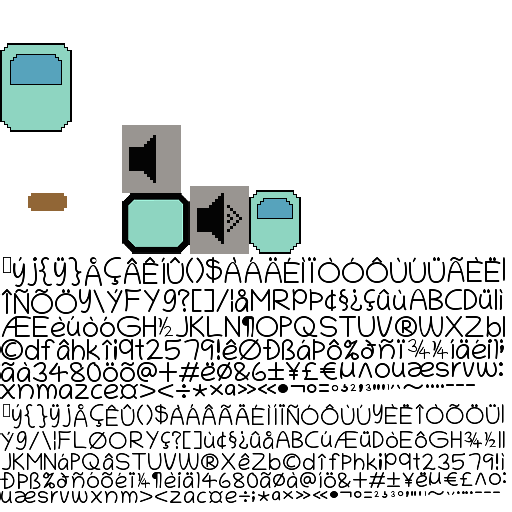
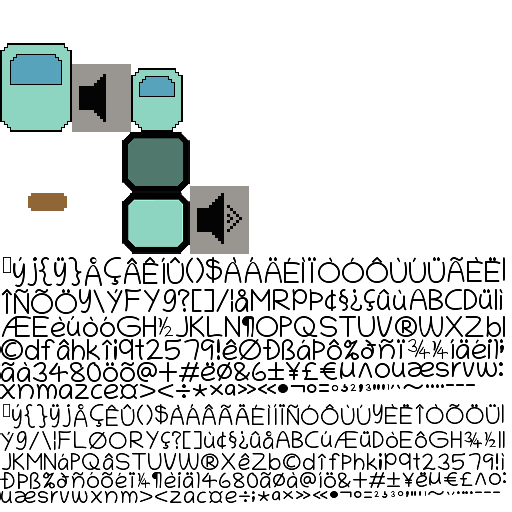
turnteller and some refining

Changed region(s): [[0.125, 0.125, 0.375, 0.375], [0.4688, 0.3438, 0.5938, 0.5]]

diff --git a/project/core/src/com/mygdx/game/screens/level1.java b/project/core/src/com/mygdx/game/screens/level1.java
@@ -41,8 +41,8 @@ public class level1 implements Screen {
 
     float timeSinceAttack = 0;
 
-    Label playerTurn;
-    Label enemyTurn;
+    public static Label playerTurn;
+    public static Label enemyTurn;
 
 
     private final Stage gameStage;
@@ -63,8 +63,7 @@ public class level1 implements Screen {
         playerTurn = new Label("Its your turn!", skin);
         enemyTurn = new Label("Its the enemies turn!", skin);
 
-        playerTurn.setPosition(Main.WORLD_WIDTH/2f, Main.WORLD_HEIGHT/1.5f);
-        enemyTurn.setPosition(Main.WORLD_WIDTH/2f, Main.WORLD_HEIGHT/2f);
+        playerTurn.setPosition(350f, Main.WORLD_HEIGHT/1.5f);
 
         playerTurn.setVisible(false);
         enemyTurn.setVisible(false);
@@ -97,24 +96,17 @@ public class level1 implements Screen {
         gameStage.addActor(playerTurn);
         gameStage.addActor(enemyTurn);
 
-
         winPopup();
         openingDialog();
     }
 
-    public void turnTeller() {
-
+    public static void playerTurnTeller() {
         if(enemyActor.allowPlayerAttack) {
             playerTurn.setVisible(true);
             playerTurn.addAction(Actions.sequence(Actions.alpha(0)
                     , Actions.fadeIn(2f), Actions.fadeOut(2f)));
-        } else {
-            enemyTurn.setVisible(true);
-            enemyTurn.addAction(Actions.sequence(Actions.alpha(0)
-                    , Actions.fadeIn(2f), Actions.fadeOut(2f)));
         }
     }
-
 
     private void openingDialog() {
         String introduceKid = Main.getLevelText("kid1");
@@ -125,6 +117,7 @@ public class level1 implements Screen {
 
                 if (obj.equals(true)) {
                     openDialog.setVisible(false);
+                    playerTurnTeller();
                 }
             }};
 
@@ -143,6 +136,7 @@ public class level1 implements Screen {
                 Gdx.app.log("nappi ", "nappi" + obj);
                 if (obj.equals(true)) {
                     host.setScreen(new levelSelect(host));
+                    player.MONEY += 50;
                 }
             }
         };
@@ -152,12 +146,13 @@ public class level1 implements Screen {
         winDialog.pack();
         winDialog.setPosition(Main.WORLD_WIDTH/4f, Main.WORLD_HEIGHT/4f);
         winDialog.setVisible(false);
+        winDialog.setMovable(false);
         gameStage.addActor(winDialog);
     }
 
     public void fight() {
 
-        //Enemy attacks only after the player attacks, and DeltaTime counts a 2 second delay for the enemies move.
+        //Enemy attacks only after the player has attacked, and DeltaTime counts a delay for the enemies move, based on how long the players invidual attack lasts.
         if(player.playerActionDone && enemy.ENEMY_HEALTH > 0){
             timeSinceAttack += Gdx.graphics.getDeltaTime();
             if (timeSinceAttack > player.enemyAttacksAfter) {
@@ -174,7 +169,6 @@ public class level1 implements Screen {
 
         if(enemy.ENEMY_HEALTH <= 0){
             enemy.enemyDie();
-            player.MONEY = player.MONEY + 500;
             kid.appear();
             gameStage.getActors().removeValue(settingsingame, true);
 
@@ -199,7 +193,7 @@ public class level1 implements Screen {
             }
         }
 
-        if(player.PLAYER_HEALTH<=0){
+        if(player.PLAYER_HEALTH <= 0){
             player.resetStats();
             host.setScreen(new GameOverScreen(host));
         }

diff --git a/project/core/src/com/mygdx/game/screens/lounge.java b/project/core/src/com/mygdx/game/screens/lounge.java
@@ -79,7 +79,7 @@ public class lounge implements Screen {
     }
 
     public void upgradeTable() {
-        Drawable background = skin.getDrawable("dialog4");
+        Drawable background = skin.getDrawable("dialog");
         attackValue = defaultValues.currentAttack;
         defenceValue = defaultValues.currentDefence;
 
@@ -91,7 +91,7 @@ public class lounge implements Screen {
         Container<Table> tableContainer = new Container<Table>();
         tableContainer.setSize(Main.WORLD_WIDTH / 2f, Main.WORLD_HEIGHT / 2f);
         tableContainer.setPosition(Main.WORLD_WIDTH / 4f, Main.WORLD_HEIGHT / 4f);
-      //  tableContainer.fillX();
+        tableContainer.fill();
 
         table = new Table(skin);
 
@@ -102,7 +102,7 @@ public class lounge implements Screen {
 
         table.setBackground(background);
 
-        table.add(moneyLabel);
+        table.add(moneyLabel).center();
         table.row().pad(5f);
         table.add(attackMinus, attackLabel, attackPlus);
         table.row();
@@ -120,7 +120,7 @@ public class lounge implements Screen {
     }
 
     public void entryPopup() {
- //Dialog dialog is initialized on the top
+        //Dialog dialog is initialized on the top
         //boolean value for showing popup is changed to true in the render call
         stage = new Stage();
         Skin skin = new Skin(Gdx.files.internal("skin.json"));

diff --git a/project/core/src/com/mygdx/game/Main.java b/project/core/src/com/mygdx/game/Main.java
@@ -35,6 +35,9 @@ public class Main extends Game {
 	public static Music menuMusic;
 	public static Music fightMusic;
 
+	public static I18NBundle myBundleFin;
+	public static I18NBundle myBundleEng;
+
 	public SpriteBatch getBatch() {
 		return batch;
 	}
@@ -58,30 +61,16 @@ public class Main extends Game {
 		localeFI = new Locale("");
 		finnish = true;
 
-		setScreen(new mainMenuScreen(this));
+		myBundleFin = I18NBundle.createBundle(Gdx.files.internal("MyBundle"), localeFI, "utf-8");
+		myBundleEng = I18NBundle.createBundle(Gdx.files.internal("MyBundle_en_US"), localeEN, "utf-8");
 
+		setScreen(new mainMenuScreen(this, skin));
 	}
 
-	public static final void setToEnglish() {
-		localeEN = new Locale("en_US");
-	}
-
-	public static final void setToFinnish() {
-		localeFI = new Locale("");
-	}
-
-
-		// String text = getLevelText("level1");
 	public static final String getLevelText(String key) {
-		// Kysy käyttikseltä millä kielellä mennään
-
 		if (finnish) {
-			I18NBundle myBundleFin =
-					I18NBundle.createBundle(Gdx.files.internal("MyBundle"), localeFI, "utf-8");
 			return myBundleFin.get(key);
 		} else {
-			I18NBundle myBundleEng =
-					I18NBundle.createBundle(Gdx.files.internal("MyBundle"), localeEN, "utf-8");
 			return myBundleEng.get(key);
 		}
 	}

diff --git a/project/core/src/com/mygdx/game/screens/mainMenuScreen.java b/project/core/src/com/mygdx/game/screens/mainMenuScreen.java
@@ -7,6 +7,7 @@ import com.badlogic.gdx.graphics.GL20;
 import com.badlogic.gdx.graphics.Texture;
 import com.badlogic.gdx.scenes.scene2d.Stage;
 import com.badlogic.gdx.scenes.scene2d.ui.Image;
+import com.badlogic.gdx.scenes.scene2d.ui.Skin;
 import com.badlogic.gdx.utils.viewport.StretchViewport;
 import com.mygdx.game.buttons.*;
 import com.mygdx.game.*;
@@ -22,10 +23,12 @@ public class mainMenuScreen implements Screen {
 
     playButton playbutton;
     settingsButton settingsbutton;
+    Skin skin;
 
-    public mainMenuScreen(final Main host) {
+    public mainMenuScreen(final Main host, Skin getSkin) {
         this.host = host;
         batch = host.batch;
+        skin = getSkin;
 
         gameStage = new Stage(new StretchViewport(Main.WORLD_WIDTH,Main.WORLD_HEIGHT));
         Gdx.input.setInputProcessor(gameStage);
@@ -34,7 +37,7 @@ public class mainMenuScreen implements Screen {
         background = new Image(backgroundTexture);
         background.setPosition(0, 0);
 
-        playbutton = new playButton();
+        playbutton = new playButton(skin);
         gameStage.addActor(playbutton);
 
         settingsbutton = new settingsButton();

diff --git a/project/core/src/com/mygdx/game/screens/settings.java b/project/core/src/com/mygdx/game/screens/settings.java
@@ -29,7 +29,7 @@ public class settings implements Screen {
     SpriteBatch batch;
     private Stage gameStage;
     private Texture BACKGROUND;
-    Skin skin;
+    static Skin skin;
     private Window window;
     private Table table;
 
@@ -55,7 +55,7 @@ public class settings implements Screen {
     }
 
     public static void setMainMenuScreen() {
-        host.setScreen(new mainMenuScreen(host));
+        host.setScreen(new mainMenuScreen(host, skin));
     }
 
     private void languageButton() {
@@ -77,7 +77,7 @@ public class settings implements Screen {
             }
         });
 
-        textbtn.setPosition(250f, 200f);
+        textbtn.setBounds(250f, 200f, 280f, 50f);
         gameStage.addActor(textbtn);
     }
 
@@ -181,7 +181,6 @@ public class settings implements Screen {
         gameStage.addActor(musicCheckBox);
     }
 
-
     @Override
     public void show() {
 
@@ -204,7 +203,7 @@ public class settings implements Screen {
 
     @Override
     public void resize(int width, int height) {
-
+        gameStage.getViewport().update(width, height, true);
     }
 
     @Override

diff --git a/project/core/src/com/mygdx/game/screens/levelSelect.java b/project/core/src/com/mygdx/game/screens/levelSelect.java
@@ -17,13 +17,12 @@ import com.mygdx.game.*;
 public class levelSelect implements Screen {
 
     static Main host;
-    SpriteBatch batch;
     private Stage gameStage;
     private Texture backgroundTexture;
     private Image background;
 
     Dialog dialog;
-    Skin skin;
+    static Skin skin;
 
     String open;
 
@@ -37,7 +36,6 @@ public class levelSelect implements Screen {
 
     public levelSelect (final Main host) {
         this.host = host;
-        batch = host.batch;
 
         skin = host.skin;
         gameStage = new Stage(new StretchViewport(Main.WORLD_WIDTH,Main.WORLD_HEIGHT));
@@ -115,7 +113,7 @@ public class levelSelect implements Screen {
     }
 
     public static void setMainMenu() {
-        host.setScreen(new mainMenuScreen(host));
+        host.setScreen(new mainMenuScreen(host, skin));
     }
 
     @Override
@@ -159,7 +157,6 @@ public class levelSelect implements Screen {
 
     @Override
     public void dispose() {
-        batch.dispose();
         gameStage.dispose();
     }
 }

diff --git a/project/core/src/com/mygdx/game/buttons/playButton.java b/project/core/src/com/mygdx/game/buttons/playButton.java
@@ -6,7 +6,8 @@ import com.badlogic.gdx.graphics.g2d.Batch;
 import com.badlogic.gdx.scenes.scene2d.Actor;
 import com.badlogic.gdx.scenes.scene2d.InputEvent;
 import com.badlogic.gdx.scenes.scene2d.InputListener;
-import com.mygdx.game.*;
+import com.badlogic.gdx.scenes.scene2d.ui.Skin;
+import com.badlogic.gdx.scenes.scene2d.ui.TextButton;
 import com.mygdx.game.screens.*;
 
 
@@ -14,12 +15,13 @@ import com.mygdx.game.screens.*;
 public class playButton extends Actor {
 
     private final Texture texture;
+    TextButton btn;
 
-    public playButton() {
-        texture = new Texture(Gdx.files.internal("start.png"));
+    public playButton(Skin getSkin) {
+        texture = new Texture(Gdx.files.internal("start_button2.png"));
 
-        setWidth(texture.getWidth());
-        setHeight(texture.getHeight());
+        setWidth(texture.getWidth()/2f);
+        setHeight(texture.getHeight()/2f);
         setBounds(275, 270f, getWidth(), getHeight());
 
         addListener(new PlayerListener());

diff --git a/project/core/src/com/mygdx/game/buttons/settingsIngameButton.java b/project/core/src/com/mygdx/game/buttons/settingsIngameButton.java
@@ -44,9 +44,10 @@ public class settingsIngameButton extends Actor {
     }
 
     public void draw(Batch batch, float alpha) {
+        batch.draw(texture, this.getX(), this.getY(), getWidth(), getHeight());
+
         stage.act();
         stage.draw();
-        batch.draw(texture, this.getX(), this.getY(), getWidth(), getHeight());
 
     }
 
@@ -63,7 +64,7 @@ public class settingsIngameButton extends Actor {
 
         table.setBackground(background);
 
-        playButton returni = new playButton();
+        playButton returni = new playButton(skin);
         TextButton close = new TextButton("close", skin);
         close.addListener(new ClickListener() {
             @Override

diff --git a/project/core/src/com/mygdx/game/buttons/statsPlusMinus.java b/project/core/src/com/mygdx/game/buttons/statsPlusMinus.java
@@ -70,7 +70,7 @@ public class statsPlusMinus extends Actor {
                 playerActor.statPointsBought++;
                 Gdx.app.log("plus", "def");
 
-            } else if (usage.equals("defenceMinus") && playerActor.PLAYER_DEF > defaultValues.playerDefaultDefence) {
+            } else if (usage.equals("defenceMinus") && defaultValues.currentDefence > defaultValues.playerDefaultDefence) {
                 defaultValues.currentDefence -= 5;
                 playerActor.MONEY += cost;
                 playerActor.statPointsBought--;

diff --git a/project/core/src/com/mygdx/game/screens/level2.java b/project/core/src/com/mygdx/game/screens/level2.java
@@ -117,7 +117,7 @@ public class level2 implements Screen {
 
         table.setBackground(background);
 
-        playButton returni = new playButton();
+        playButton returni = new playButton(skin);
         returnButton returnbutton = new returnButton(0,0,"ingameSettings");
 
         table.add(returni);

diff --git a/project/core/src/com/mygdx/game/screens/level3.java b/project/core/src/com/mygdx/game/screens/level3.java
@@ -117,7 +117,7 @@ public class level3 implements Screen {
 
         table.setBackground(background);
 
-        playButton returni = new playButton();
+        playButton returni = new playButton(skin);
         returnButton returnbutton = new returnButton(0,0,"ingameSettings");
 
         table.add(returni);

diff --git a/project/core/src/com/mygdx/game/enemyActor.java b/project/core/src/com/mygdx/game/enemyActor.java
@@ -222,10 +222,10 @@ public class enemyActor extends Actor {
             public void run() {
                 allowPlayerAttack = true;
                 usingBuffAttack = false;
+                level1.playerTurnTeller();
             }
         }, delay);
     }
-
 
     public void enemyDie() {
 
